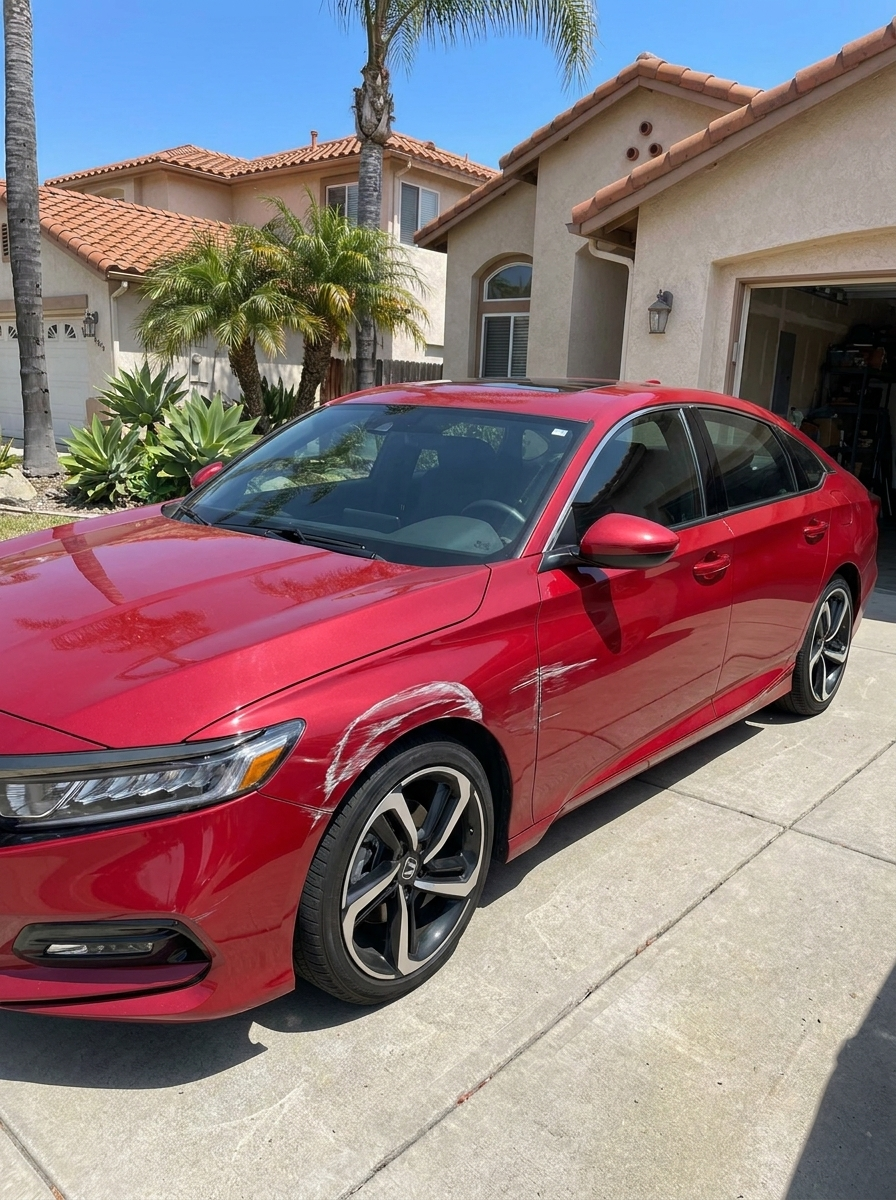
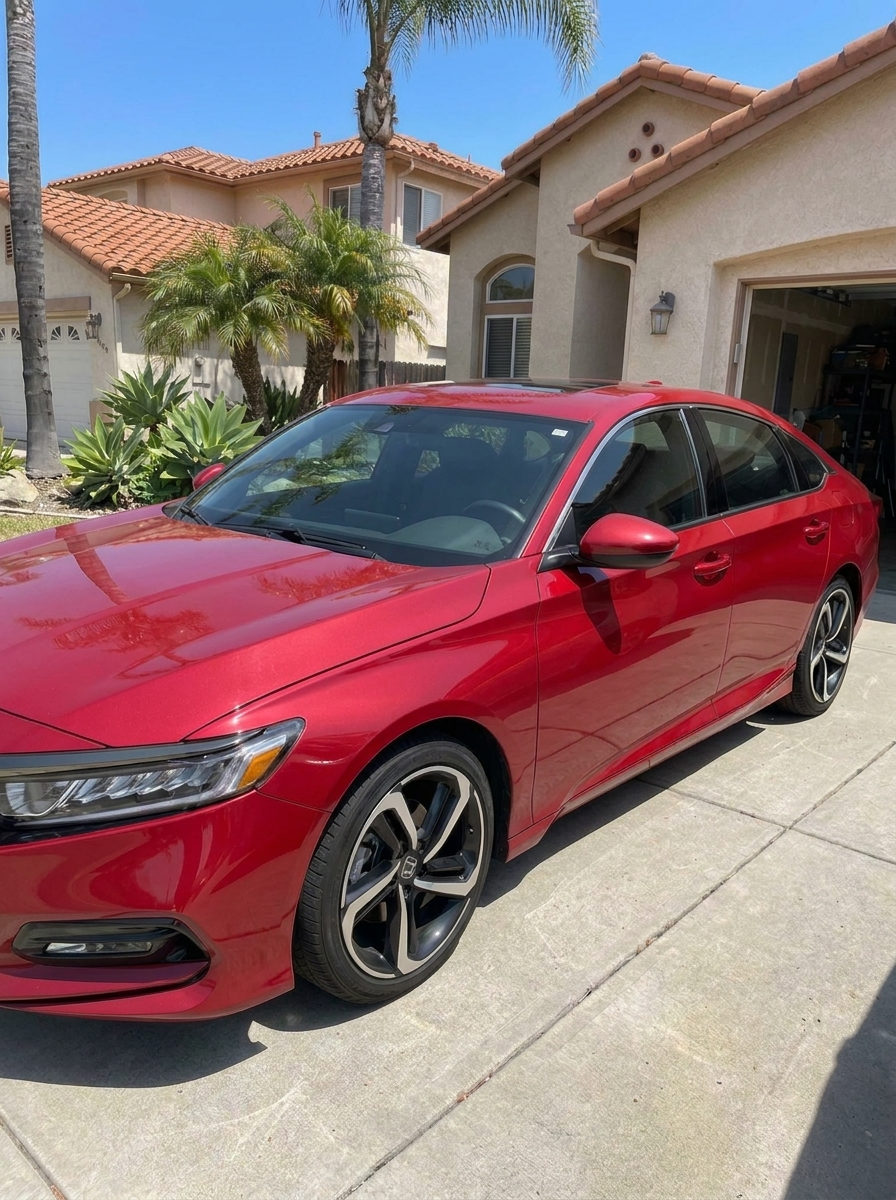
Results card 2: proper before/after with Honda Accord fender repair

diff --git a/index.html b/index.html
@@ -1231,9 +1231,15 @@
 
     <!-- Card 2 — Fast turnaround -->
     <div class="rj-card">
-      <div class="rj-photo">
-        <div class="rj-photo-icon">🚙</div>
-        <div class="rj-photo-txt">Driver Door</div>
+      <div class="rj-photo" style="padding:0;display:grid;grid-template-columns:1fr 1fr;position:relative;">
+        <div style="position:relative;overflow:hidden;">
+          <img src="result-3.png" alt="Before — fender damage" style="width:100%;height:100%;object-fit:cover;display:block;">
+          <div style="position:absolute;bottom:8px;left:8px;background:rgba(0,0,0,0.72);color:#fff;font-size:10px;font-weight:700;letter-spacing:0.1em;padding:3px 8px;border-radius:3px;text-transform:uppercase;">Before</div>
+        </div>
+        <div style="position:relative;overflow:hidden;border-left:2px solid #D92626;">
+          <img src="result-4.png" alt="After — fender repaired" style="width:100%;height:100%;object-fit:cover;display:block;">
+          <div style="position:absolute;bottom:8px;left:8px;background:rgba(74,222,128,0.9);color:#000;font-size:10px;font-weight:700;letter-spacing:0.1em;padding:3px 8px;border-radius:3px;text-transform:uppercase;">After</div>
+        </div>
       </div>
       <div class="rj-body">
         <div class="rj-tag">Same-Day Repair</div>